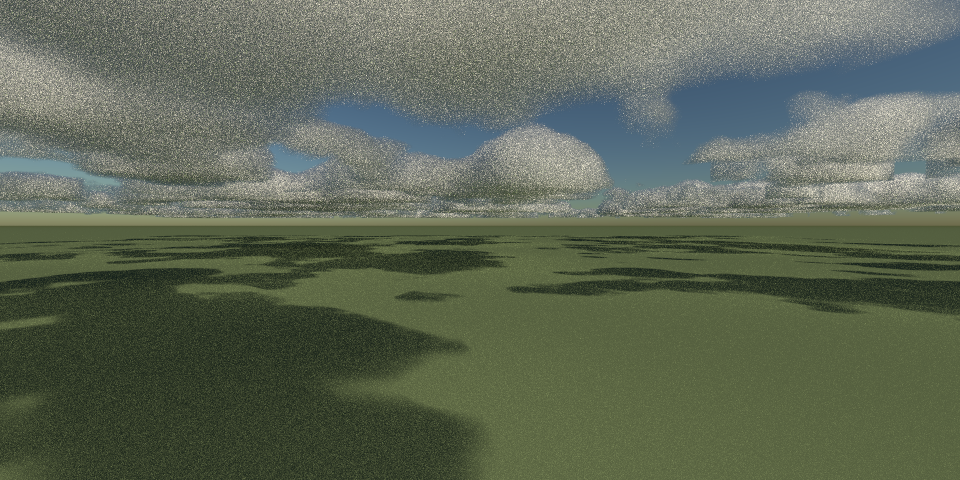
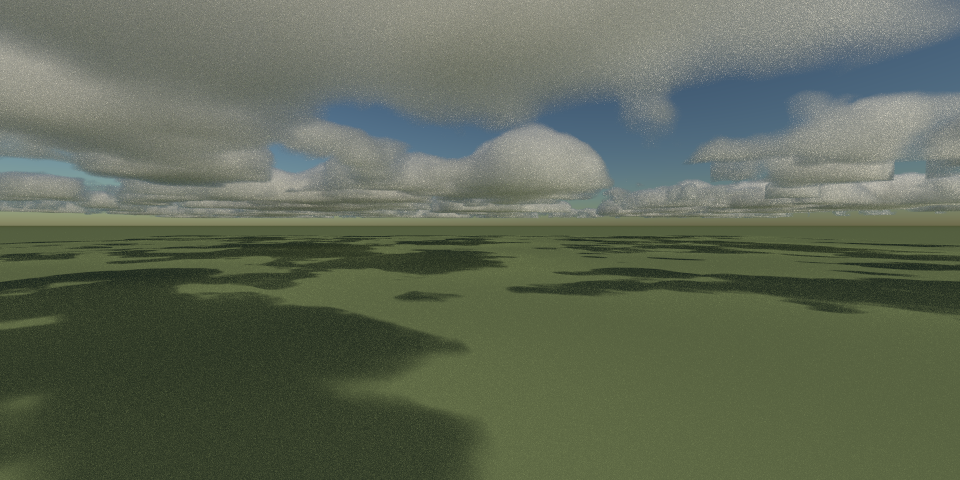
Render the cloud demo with similarity from the 4th scattering
Measured on the demo scene at 160x80 against a 1024-sample exact
reference (noise as RMS difference of two seeds, bias as RMS difference
from the reference after 8x downsampling, whose floor is 0.012):

  variant              time  noise   bias  vs exact efficiency
  exact               13.6s  0.090  0.015    1x
  similarity from 4    8.1s  0.042  0.013    7.7x
  similarity from 2    6.7s  0.030  0.020   18x
  Oz (defaults)        9.8s  0.013  0.130   (21% too dark)
  Mie 15um, exact     13.6s  0.081  0.030
  Mie 15um, sim. 4     7.9s  0.037  0.029   10x

So the demo uses g = 0.85 with similarity from the 4th scattering, at
256 samples (18 minutes on four cores): twice the samples of the
previous exact render, in about the same time, with no measurable bias.

Mie droplets were tried and rejected for the demo: their forward peak
(half the scattering, g ~ 0.993, ~2900/sr at its peak) makes fireflies
wherever a path happens to head into the point-like sun.

Claude-Session: https://claude.ai/code/session_01U8ZZinwhHe5p11D21Sa8SU

Changed region(s): [[0.0, 0.0, 1.0, 0.4688]]

diff --git a/CLAUDE.md b/CLAUDE.md
@@ -5,7 +5,7 @@ Rays.rust is a raytracer written in Rust with the following features:
 - Whitted tracing and path tracing with Monte-Carlo global illumination
 - Material models: Lambertian, Specular, Dielectric
 - Objects: Sphere, Plane, Mesh, OBJ file import
-- Participating media: boxes of constant or noise-driven density (delta tracking, Henyey-Greenstein phase)
+- Participating media: boxes of constant or noise-driven density (delta tracking with local majorants, ratio-tracked shadows); Henyey-Greenstein or Mie (water droplet) phase; optional similarity and Oz multiple-scattering approximations
 - Skysphere with Rayleigh and Mie Scattering
 - Directional sun light (`"sun"`), sampled directly; follows the skysphere's sun and is reddened by its atmosphere
 - Procedural objects including Ocean (Tessendorf's algorithm with Phillips spectrum) and volumetric clouds (`"nubis_clouds"`, after Horizon Zero Dawn's Nubis)
